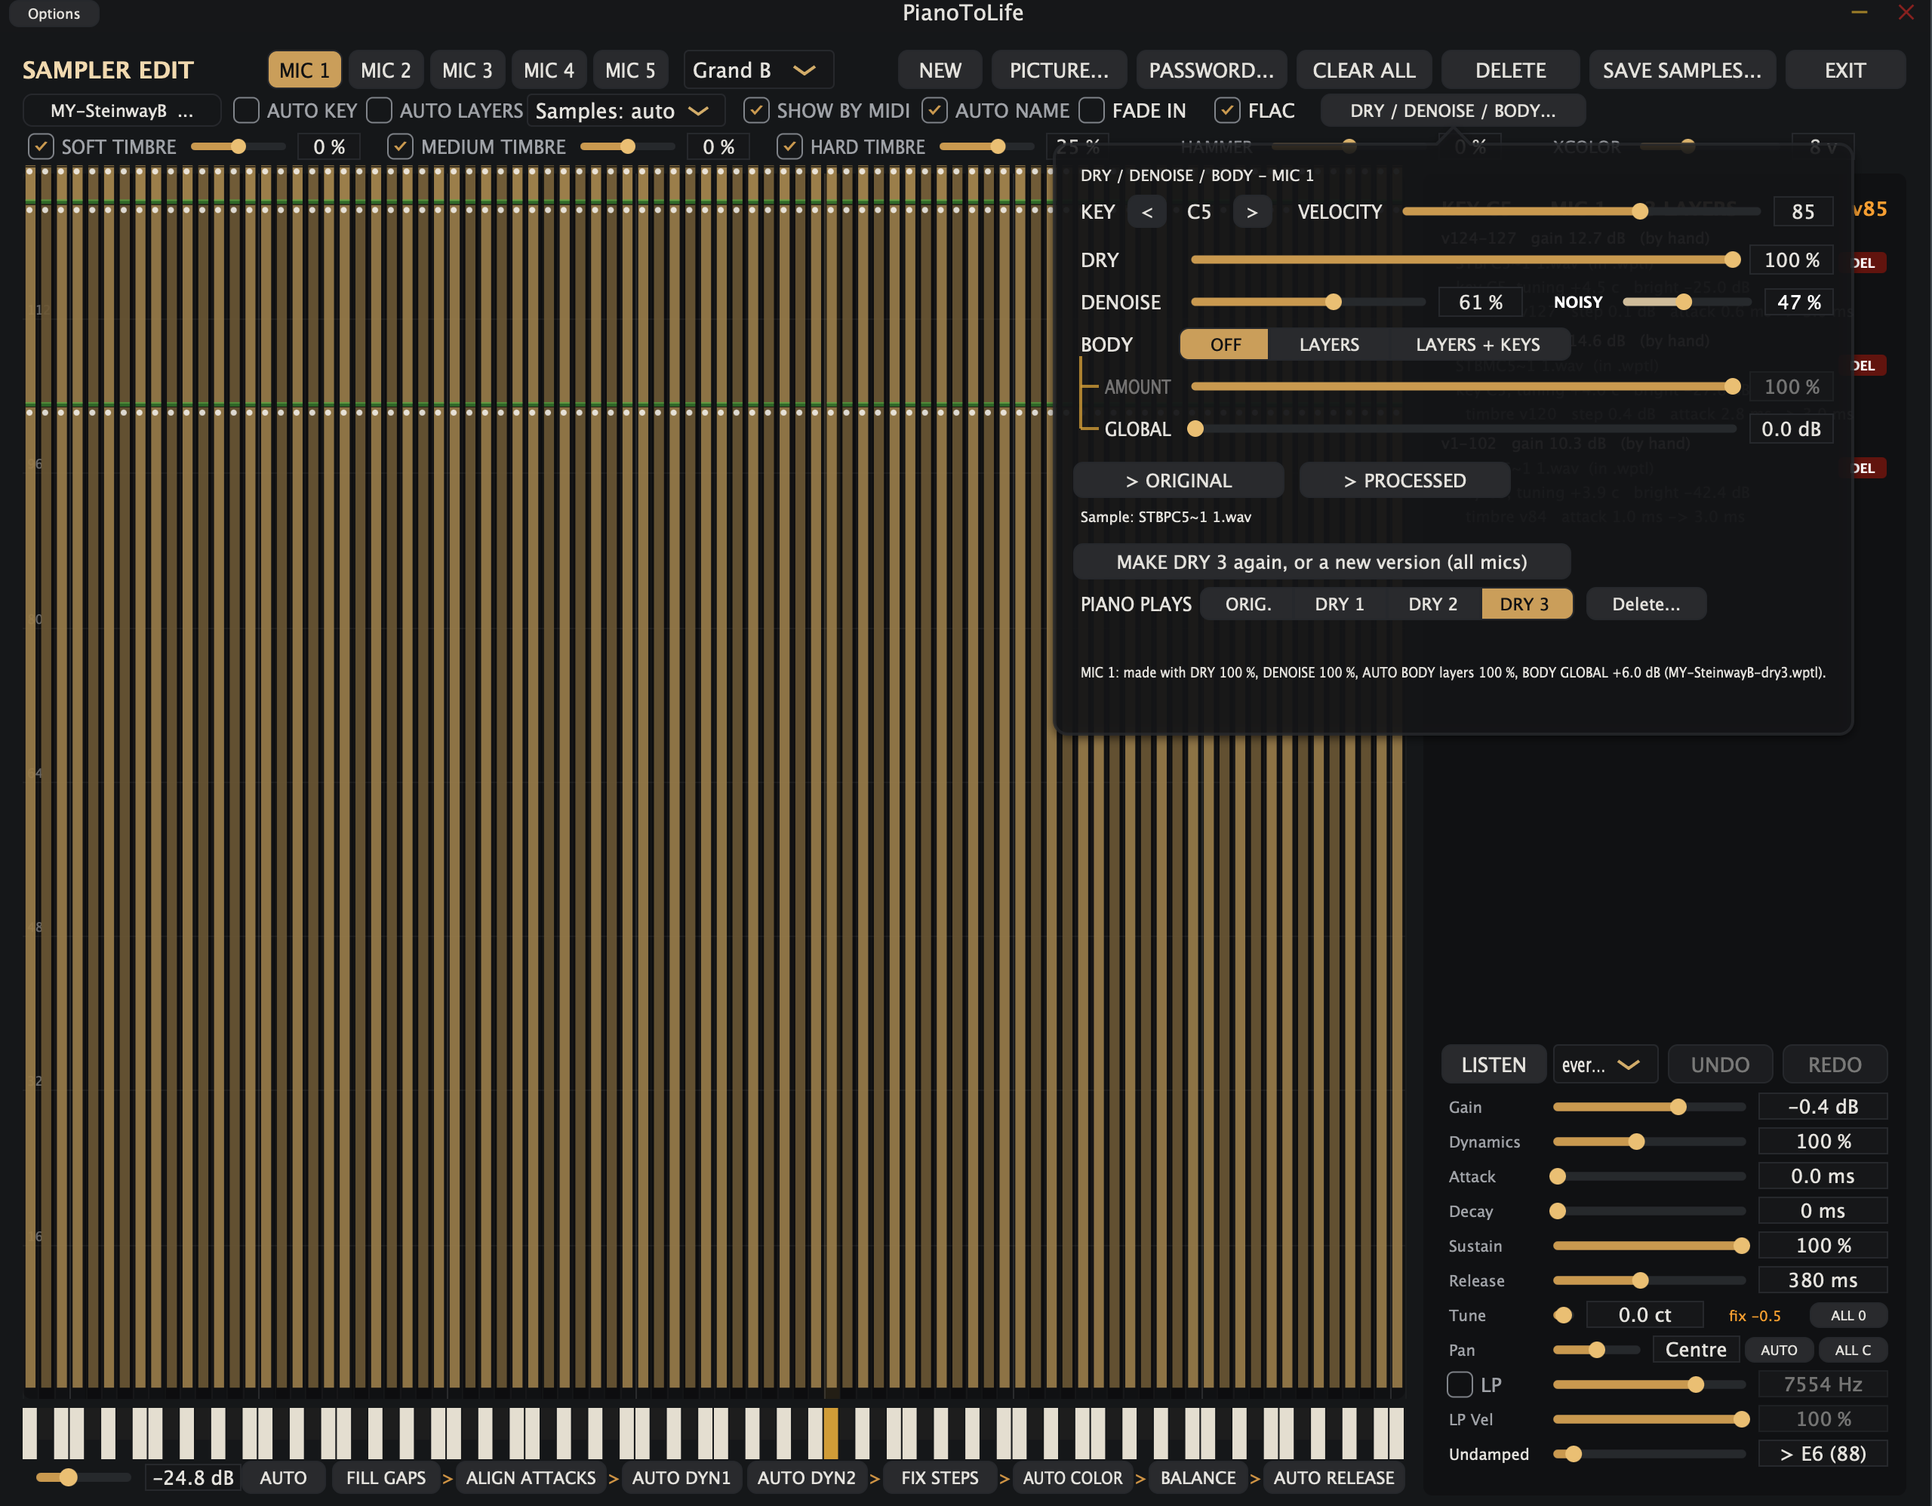
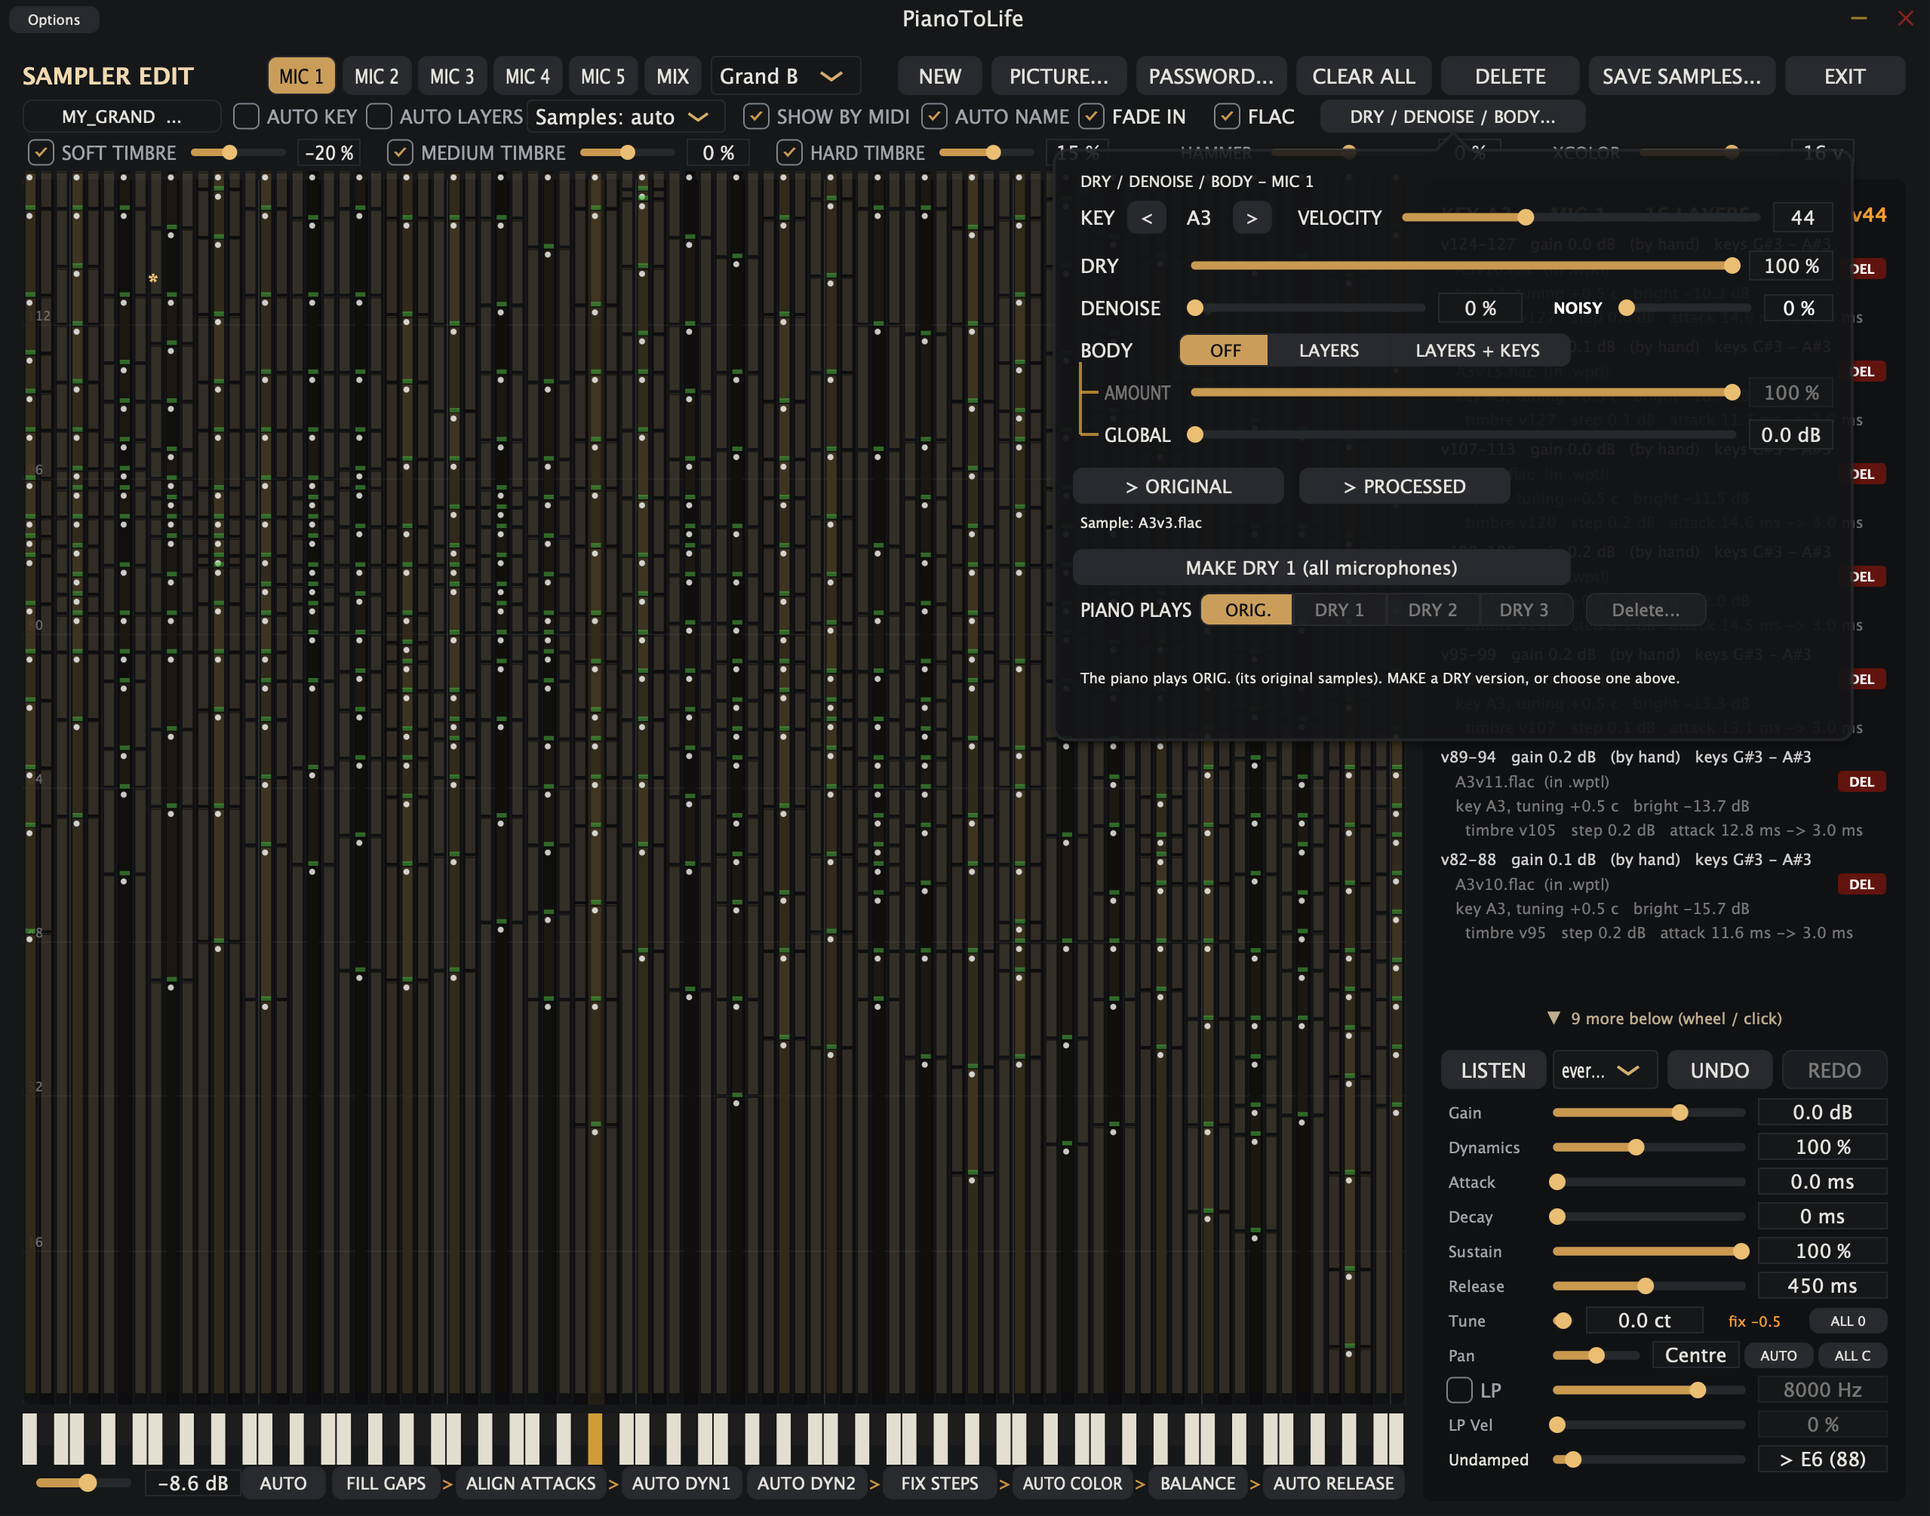
11.4.0: README, manuals, changelog, screenshots

diff --git a/README.md b/README.md
@@ -6,7 +6,7 @@ with one live, physically modelled string engine — from a single held key to e
 <p align="center"><b>New in 10:</b> no hosted piano needed — play your own samples with the built-in sampler.<br>Pedal-up samples are enough: resonance, pedals and noises are modelled live (hybrid sampling + modelling).</p>
 
 <p align="center">
-  <img src="Screenshot-A.png?v=1138" alt="PianoToLife: the main window (SAMPLER mode, a sampled Steinway B)" width="900">
+  <img src="Screenshot-A.png?v=1140" alt="PianoToLife: the main window (SAMPLER mode, a sampled Steinway B)" width="900">
 </p>
 
 <p align="center">
@@ -53,11 +53,11 @@ release or resonance samples. A 3- to 6-layer pedal-up library is enough: PianoT
 so it plays like a deeply sampled piano, even when the library is badly cut or normalised.
 
 <p align="center">
-  <img src="Screenshot-E.png?v=1138" alt="SAMPLER EDIT: the DRY / DENOISE / BODY panel, NOISY 0-100 %" width="900">
+  <img src="Screenshot-E.png?v=1140" alt="SAMPLER EDIT: MIC 1-5 and MIX, the DRY / DENOISE / BODY panel, NOISY 0-100 %, MAKE DRY 1 (all microphones), PIANO PLAYS ORIG. / DRY 1-3" width="900">
 </p>
 
 <p align="center">
-  <img src="Screenshot-J.png?v=1138" alt="SAMPLER EDIT: LISTEN from one velocity to another - ALL 1-127, THIS LAYER, ITS BOUNDARY" width="520">
+  <img src="Screenshot-J.png?v=1140" alt="SAMPLER EDIT: LISTEN from one velocity to another - ALL 1-127, THIS LAYER, ITS BOUNDARY" width="520">
 </p>
 
 
@@ -67,7 +67,7 @@ Load a song, a playlist, a folder or a video, and play your piano with it. The M
 (29 EUR or 29 USD minimum, one payment, no subscription; 3 minutes of demo per session without the password).
 
 <p align="center">
-  <img src="Screenshot-B.png?v=1138" alt="The MEDIA player with FOLDERS and the pieces (SEARCH) at its left; VIDEO and KARAOKE, AUTO, SPEED, LEVEL and CEIL., Play at A4 and TRANSP., NO VOICE / NO PIANO / VOICE / PIANO, the singers' buttons (SHE, CHOIR), CLEAN PIANO, LIVE STEMS, LYRICS" width="900">
+  <img src="Screenshot-B.png?v=1140" alt="The MEDIA player with FOLDERS and the pieces (SEARCH) at its left; VIDEO and KARAOKE, AUTO, SPEED, LEVEL and CEIL., Play at A4 and TRANSP., NO VOICE / NO PIANO / VOICE / PIANO, CLEAN PIANO, PREPARE STEMS / STEMS READY, LIVE STEMS, LYRICS / FIND LYRICS (AI), EDIT LYRICS" width="900">
 </p>
 
 - **NO VOICE / NO PIANO / CLEAN PIANO**: the piece separated once on your computer (kept in the stems folder: Samples/Stems, or a folder you choose, shared on the network), then played
@@ -78,7 +78,7 @@ Load a song, a playlist, a folder or a video, and play your piano with it. The M
   network. Then **MASTER** on the one you play on and **FOLLOW** on the other (11.3.4): it separates what you ask.
 
 <p align="center">
-  <img src="Screenshot-I.png?v=1138" alt="Right-click FAST / QUALITY: the stems folder (one shared on the network lets another computer separate for this one)" width="520">
+  <img src="Screenshot-I.png?v=1140" alt="Right-click FAST / QUALITY: the stems folder (one shared on the network lets another computer separate for this one)" width="520">
 </p>
 
 - **In tune and in your key**: *Play at A4* plays the recording at the A4 of your piano (432 to 448 Hz), and **TRANSP.**
@@ -94,7 +94,7 @@ Load a song, a playlist, a folder or a video, and play your piano with it. The M
   film in several languages.
 
 <p align="center">
-  <img src="Screenshot-F.png?v=1138" alt="PADS: 4 x 4 pads on 5 pages, a MIDI controller, MEDIA or PAD, TOGGLE or HOLD, MIDI LEARN" width="640">
+  <img src="Screenshot-F.png?v=1140" alt="PADS: 4 x 4 pads on 5 pages, a MIDI controller, MEDIA or PAD, TOGGLE or HOLD, MIDI LEARN" width="640">
 </p>
 
 > **Disk space.** A file that macOS or Windows cannot read directly — a video's sound (MP4, MOV...), a format decoded by
@@ -107,7 +107,7 @@ Load a song, a playlist, a folder or a video, and play your piano with it. The M
 > large disk for it.
 
 <p align="center">
-  <img src="Screenshot-D.png?v=1138" alt="VIDEO with FOR LIVE: the line sung framed, the next one in full colour (the picture blurred here)" width="900">
+  <img src="Screenshot-D.png?v=1140" alt="VIDEO with FOR LIVE: the line sung framed, the next one in full colour (the picture blurred here)" width="900">
 </p>
 
 - **CHORDS**: the chords and the key of the piece, scrolling in time with it (and transposed with it).
@@ -118,7 +118,7 @@ Load a song, a playlist, a folder or a video, and play your piano with it. The M
 ### LYRICS: found, corrected, in time
 
 <p align="center">
-  <img src="Screenshot-C.png?v=1138" alt="LYRICS EDIT: the lyrics proposed by LRCLIB, what Whisper heard, the lines aligned on the voice; the duet menu (HE, SHE, 1, 2, BOTH, CHOIR); STOP, UNDO / REDO, DELETE LYRICS" width="900">
+  <img src="Screenshot-C.png?v=1140" alt="LYRICS EDIT: the lyrics proposed by LRCLIB, what Whisper heard, the lines aligned on the voice; the duet menu (HE, SHE, 1, 2, BOTH, CHOIR); FIND / REPLACE, STOP, UNDO / REDO, DELETE LYRICS, TIMES" width="900">
 </p>
 
 - **LYRICS** listens to the separated voice of the piece and writes its lyrics in time (Whisper, on your computer). The
@@ -130,7 +130,27 @@ Load a song, a playlist, a folder or a video, and play your piano with it. The M
 
 ---
 
-## What's new in 11.3.8
+## What's new in 11.4.0
+
+**AUTO COLOR that never makes a piano metallic - every piano we tried sounds better with it.**
+
+- **AUTO COLOR** (SAMPLER EDIT) asks two more questions: **Never brighter than the reference** (on by default) and
+  **Never darker than the piano is** (off by default). Most libraries have many loud layers and few soft ones: AUTO
+  COLOR darkens the soft notes as before, but no longer adds brightness to a forte that is already bright.
+  **We recommend the default setting.**
+- **MAKE (all microphones)**: a MAKE already running can no longer be broken by a second one (the other microphones
+  were then never made); MAKE stays greyed until every microphone is done; the progress says which microphone, and
+  of how many.
+- **SAMPLER EDIT**: **MIX** hears every microphone together while you edit one (off: the edited one alone, neutral, as
+  before); **SAVE SAMPLES** can be stopped (**STOP SAVING**).
+- **Media player**: **FIND LYRICS (AI)** when a piece has no lyrics yet, **EDIT LYRICS**, and the stems' state as a button:
+  **PREPARE STEMS** (a click separates the piece), **PREPARING n %**, **STEMS READY** (green).
+
+<p align="center">
+  <img src="Screenshot-K.png?v=1140" alt="AUTO COLOR: SOFT, MEDIUM, HARD, Never brighter than the reference (on), Never darker than the piano is (off)" width="520">
+</p>
+
+### Also in 11.3.8
 
 **Better lyrics: a larger speech model, Whisper's slips caught, and FIND / REPLACE.**
 
@@ -302,11 +322,11 @@ Load a song, a playlist, a folder or a video, and play your piano with it. The M
 - **STEMS READY** lists each separated piece once.
 
 <p align="center">
-  <img src="Screenshot-G.png?v=1138" alt="TEMPERAMENT (SAMPLER): Equal, Stretch 100 %, FIX KEYS and CLEAR FIX, the table Recorded / Played / Shift" width="640">
+  <img src="Screenshot-G.png?v=1140" alt="TEMPERAMENT (SAMPLER): Equal, Stretch 100 %, FIX KEYS and CLEAR FIX, the table Recorded / Played / Shift" width="640">
 </p>
 
 <p align="center">
-  <img src="Screenshot-H.png?v=1138" alt="TEMPERAMENT (HOST): the hosted piano tuned to Equal, Stretch 100 %, FIX KEYS, EXPORT .txt + .scl" width="640">
+  <img src="Screenshot-H.png?v=1140" alt="TEMPERAMENT (HOST): the hosted piano tuned to Equal, Stretch 100 %, FIX KEYS, EXPORT .txt + .scl" width="640">
 </p>
 
 ### Also in 11.2.6

diff --git a/SAMPLER_MANUAL.md b/SAMPLER_MANUAL.md
@@ -1,6 +1,6 @@
 # PianoToLife Sampler — User Manual
 
-*Version 11.3.8 · [Version française](MANUEL_SAMPLER.md) · General manual: [User Manual](USER_MANUAL.md)*
+*Version 11.4.0 · [Version française](MANUEL_SAMPLER.md) · General manual: [User Manual](USER_MANUAL.md)*
 
 PianoToLife's built-in sampler plays **your own piano samples** with all of PianoToLife's engines on top of
 them. This manual explains how to turn a folder of samples into a playable piano, what every button does, and
@@ -143,6 +143,8 @@ or the ▲ / ▼ lines, and follows the selection.
 
 **What you hear in EDIT** (10.3.8): the microphone shown (MIC 1–5) alone and neutral — 0 dB, centred, full width, no
 delay, no L↔R, BODY at 0 — whatever the MIX. Back to the main window, the MIX drives the microphones again.
+**MIX** (11.4.0, right of MIC 5): every microphone heard together, as in the main window (each at its MIX level, with the
+settings), while you go on editing the one shown. Off by default.
 
 ### Options at the top
 
@@ -241,6 +243,14 @@ a selection before working on every key.
    leave it as it is — it is then switched off, and its TIMBRE box in the row follows. HAMMER is never touched. Run it
    again after AUTO DYN. UNDO puts the sliders back. Since 10.9.0 it follows **RANGE**: a velocity made softer is aimed
    at a darker colour, a louder one at a brighter colour, as on a real piano.
+   **Since 11.4.0, two limits** in the same window (your choice is remembered):
+   - **Never brighter than the reference** (on by default, for pianos that are already bright): a layer can be made
+     brighter up to the reference, never beyond.
+   - **Never darker than the piano is** (off by default, for pianos that are already dull): the colour never takes
+     brightness away from the original samples.
+   Most libraries are sampled with many loud layers and few soft ones; without the first limit, AUTO COLOR could add
+   brightness to a forte that was already bright, and the piano got metallic. **We recommend the default setting** (the
+   first limit on, the second off): every piano we tried sounds better and more even with it.
 6. **BALANCE** — evens out the volume from one key to the next, measured at velocity 127 (each key's layers follow).
    - **Smooth**: the set's own curve without the jumps (the register balance of the recording is kept).
    - **Grand D / Grand B / Upright**: the bass-to-treble balance of a reference piano, at your set's level.
@@ -410,7 +420,7 @@ keys.
 |---|---|
 | **NEW** | An empty set (the set open now is not changed on disk) |
 | **Name** (under the title) | Click to **RENAME** the set and its sample file (10.9.8: an instrument with DRY versions is renamed with its versions, and its samples keep their names) |
-| **SAVE SAMPLES...** (10.6.0, was SAVE SET) | Makes the instrument: the samples go into an encrypted container (`.wptl`) in your library, rewritten only when samples change. The **mapping and all the settings are saved in the instrument** (`.ptlset`, **SAVE AS** in the main window) and in the session, as you hear them |
+| **SAVE SAMPLES...** (10.6.0, was SAVE SET) | Makes the instrument: the samples go into an encrypted container (`.wptl`) in your library, rewritten only when samples change. The **mapping and all the settings are saved in the instrument** (`.ptlset`, **SAVE AS** in the main window) and in the session, as you hear them. **11.4.0**: while it saves, the button becomes **STOP SAVING** - the file being written is dropped, the samples already in the set are untouched |
 | Variants | A bright and a dark version of the same samples are simply **two instruments** (`.ptlset`) on the same `.wptl` - SAVE AS under another name (SAVE AS VARIANT is retired; old variants still open) |
 | **PICTURE...** (10.6.0) | The picture of the sample bank (PNG / JPEG, like a Kontakt wallpaper), kept encrypted in its `.wptl` and shown in the main window in place of the strings photo, for every instrument of these samples. Remove it from the same menu |
 | **PASSWORD...** | Protects EDIT with a password (playing the set never asks for it). Empty = no password |

diff --git a/USER_MANUAL.md b/USER_MANUAL.md
@@ -1,6 +1,6 @@
 # PianoToLife — User Manual
 
-*Version 11.3.8 · [Version française](MANUEL.md) · Sampler mapping: [Sampler Manual](SAMPLER_MANUAL.md)*
+*Version 11.4.0 · [Version française](MANUEL.md) · Sampler mapping: [Sampler Manual](SAMPLER_MANUAL.md)*
 
 PianoToLife makes a virtual piano **behave like a real one**: the strings that ring in sympathy, the sustain pedal
 and half pedal, the dampers, the release, the una corda, the noises of the mechanism. This manual explains how it
@@ -834,6 +834,10 @@ saved beside it, then the BOUNCE options open); PLAY plays the take at once. LOA
   - **11.3.8 — VIDEO** takes at once a change of times saved in LYRICS EDIT (before, only a change of text was seen).
   - **11.3.8 — fast bounce**: a hole is counted only when the sound stops in the middle of a note (still loud just
     before); a silence in the music, however short, no longer makes the bounce start again in real time.
+  - **11.4.0 — clearer buttons**: **FIND LYRICS (AI)** when the piece has no lyrics yet (then LYRICS, or LYRICS C. once
+    corrected); **EDIT LYRICS** (was EDIT). The stems' state is a button at the start of its line: **PREPARE STEMS** (a
+    click separates the piece once - kept, never done again), **PREPARING n %** (CANCEL beside it), **STEMS READY** (green:
+    NO VOICE, NO PIANO, VOICE, PIANO and CLEAN PIANO play at once).
   - **Disk space** (11.2.1): a file the system cannot read directly — a video's sound, a format decoded by FFmpeg, or
     another audio track — is decoded once and **kept** in a cache (Mac: `~/Library/Application Support/PianoToLife/Video
     sound`; Windows: `%APPDATA%\PianoToLife\Video sound`), the 30 newest; a long film can take more than 1 GB. Delete

diff --git a/MANUEL.md b/MANUEL.md
@@ -1,6 +1,6 @@
 # PianoToLife — Manuel d'utilisation
 
-*Version 11.3.8 · [English version](USER_MANUAL.md) · Mapping du sampler : [Manuel du sampler](MANUEL_SAMPLER.md)*
+*Version 11.4.0 · [English version](USER_MANUAL.md) · Mapping du sampler : [Manuel du sampler](MANUEL_SAMPLER.md)*
 
 PianoToLife fait **se comporter un piano virtuel comme un vrai** : les cordes qui résonnent par sympathie, la pédale
 de sustain et la demi-pédale, les étouffoirs, le relâchement, l'una corda, les bruits de la mécanique. Ce manuel
@@ -907,6 +907,10 @@ s'entend souvent tout de suite : la salle du piano se révèle, au lieu d'être 
     de texte était vu).
   - **11.3.8 — bounce rapide** : un trou n'est compté que si le son s'arrête au milieu d'une note (encore fort juste
     avant) ; un silence de la musique, même court, ne fait plus recommencer le bounce en temps réel.
+  - **11.4.0 — des boutons plus clairs** : **FIND LYRICS (AI)** quand le morceau n'a pas encore de paroles (puis LYRICS,
+    ou LYRICS C. une fois corrigées) ; **EDIT LYRICS** (anciennement EDIT). L'état des stems est un bouton au début de sa
+    ligne : **PREPARE STEMS** (un clic sépare le morceau une fois - gardé, jamais refait), **PREPARING n %** (CANCEL à
+    côté), **STEMS READY** (vert : NO VOICE, NO PIANO, VOICE, PIANO et CLEAN PIANO jouent tout de suite).
   - **Place sur le disque** (11.2.1) : un fichier que le système ne lit pas directement — le son d'une vidéo, un format
     décodé par FFmpeg ou une autre piste audio — est décodé une fois et **gardé** dans un cache (Mac : `~/Library/
     Application Support/PianoToLife/Video sound` ; Windows : `%APPDATA%\PianoToLife\Video sound`), les 30 plus récents ;

diff --git a/CHANGELOG.md b/CHANGELOG.md
@@ -2,6 +2,22 @@
 
 Every version, the newest first. The [README](README.md) shows what PianoToLife does today.
 
+## 11.4.0
+
+**AUTO COLOR that never makes a piano metallic - every piano we tried sounds better with it.**
+
+- **AUTO COLOR** (SAMPLER EDIT) asks two more questions: **Never brighter than the reference** (on by default) and
+  **Never darker than the piano is** (off by default). Most libraries have many loud layers and few soft ones: AUTO
+  COLOR darkens the soft notes as before, but no longer adds brightness to a forte that is already bright.
+  **We recommend the default setting.**
+- **MAKE (all microphones)**: a MAKE already running can no longer be broken by a second one (the other microphones
+  were then never made); MAKE stays greyed until every microphone is done; the progress says which microphone, and
+  of how many.
+- **SAMPLER EDIT**: **MIX** hears every microphone together while you edit one (off: the edited one alone, neutral, as
+  before); **SAVE SAMPLES** can be stopped (**STOP SAVING**).
+- **Media player**: **FIND LYRICS (AI)** when a piece has no lyrics yet, **EDIT LYRICS**, and the stems' state as a button:
+  **PREPARE STEMS** (a click separates the piece), **PREPARING n %**, **STEMS READY** (green).
+
 ## 11.3.8
 
 **Better lyrics: a larger speech model, Whisper's slips caught, and FIND / REPLACE.**
